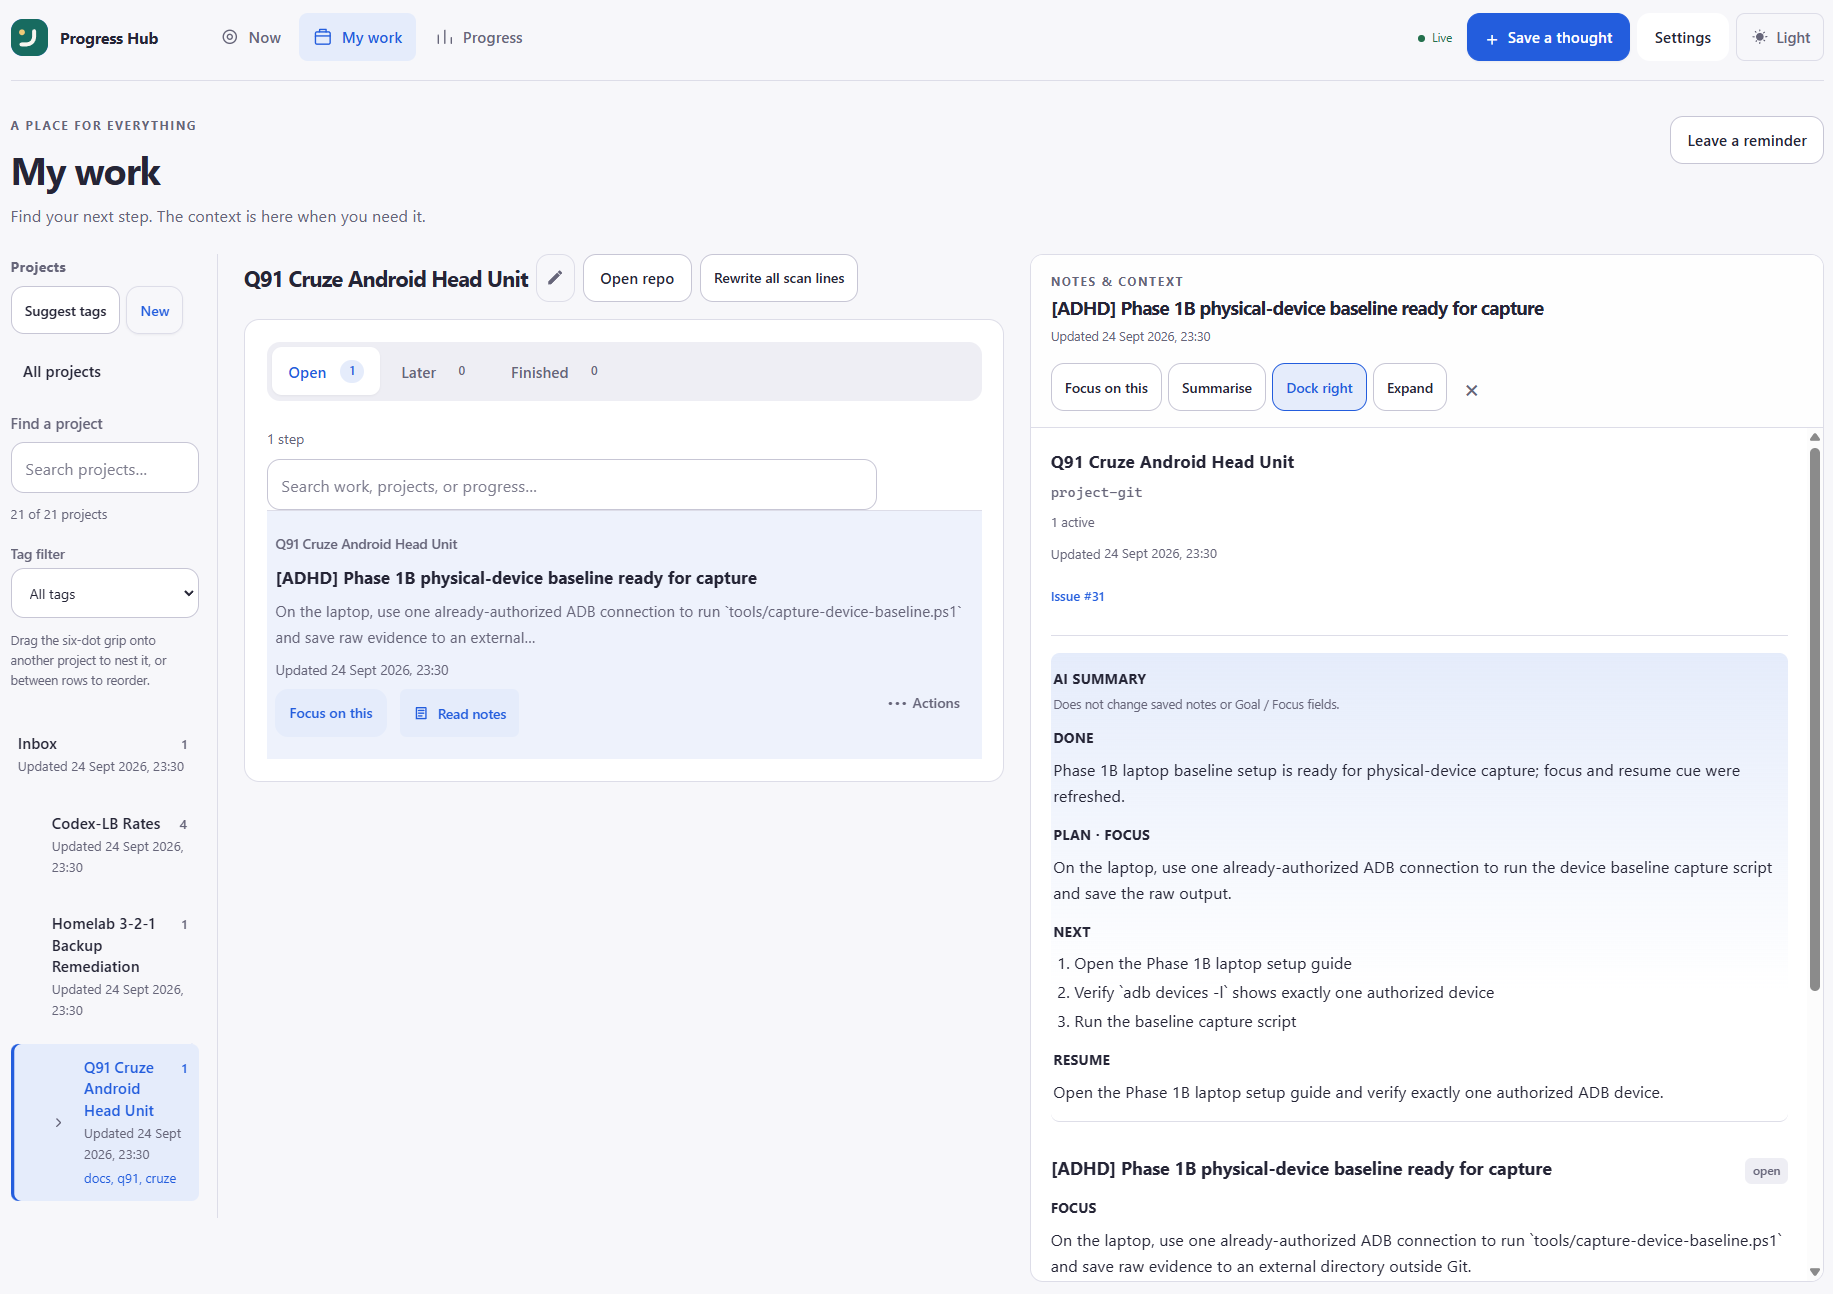
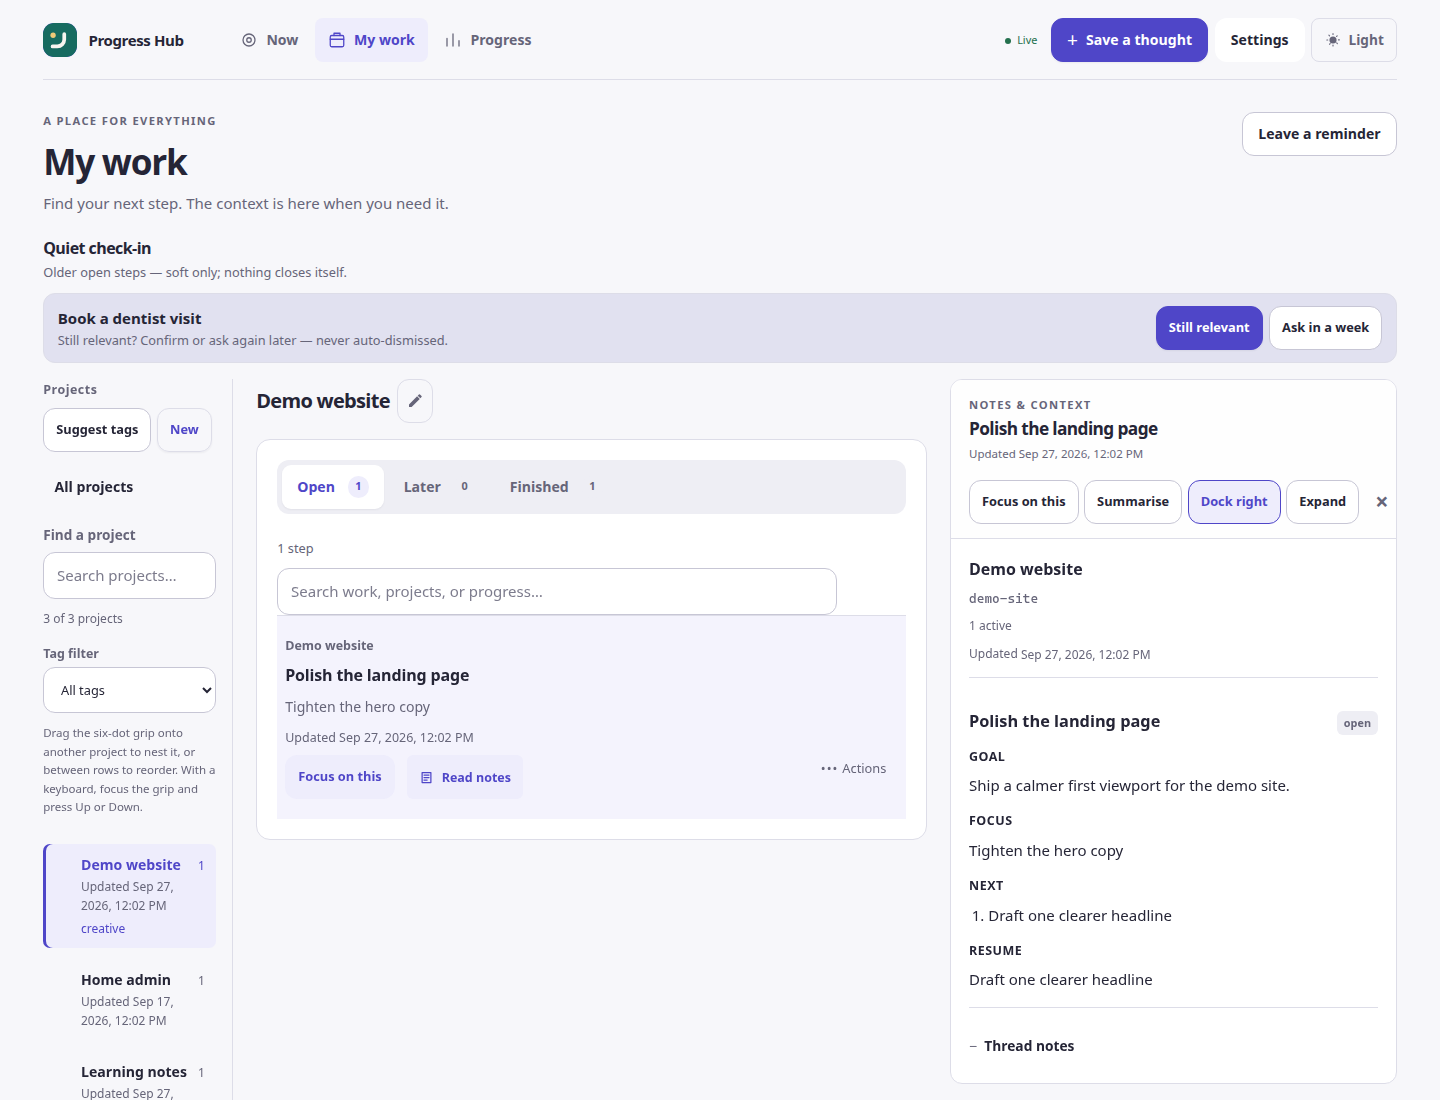
docs: refresh product screenshots for 0.18.0 docs (#256)
* docs: refresh product screenshots for 0.18.0 docs

Regenerate README/docs gallery and hero shots against latest main UI
(Quiet check-in, Notes reader, Settings). Capture script seeds a stale
thread for triage framing and syncs the hero from the notes-reader shot.

* docs: drop Quiet check-in from Notes-reader hero captions

Hero image is the My work Notes reader shot; Quiet check-in belongs in the Now gallery capture.

---------

diff --git a/scripts/capture_readme_screenshots.py b/scripts/capture_readme_screenshots.py
@@ -2,6 +2,10 @@
 
 Run: uv run --with playwright python scripts/capture_readme_screenshots.py
 Optional: ADHD_HUB_BROWSER_EXECUTABLE, ADHD_HUB_SCREENSHOT_DIR
+
+Prefer Playwright's bundled Chromium (omit ADHD_HUB_BROWSER_EXECUTABLE). Some
+system Chrome builds ignore Playwright viewport height, which crops Quiet
+check-in off the Now shot.
 """
 
 from __future__ import annotations
@@ -9,11 +13,14 @@ from __future__ import annotations
 import json
 import os
 import secrets
+import shutil
 import socket
+import sqlite3
 import subprocess
 import sys
 import tempfile
 import time
+from datetime import UTC, datetime, timedelta
 from pathlib import Path
 from urllib.request import Request, urlopen
 
@@ -151,6 +158,17 @@ def main() -> None:
                 },
             )
 
+            # Backdate one open thread so Quiet check-in (Wave 7 soft triage)
+            # appears on Now without inventing product state.
+            stale_at = (datetime.now(UTC) - timedelta(days=10)).isoformat()
+            with sqlite3.connect(Path(data) / "hub.sqlite3") as conn:
+                conn.execute(
+                    "UPDATE threads SET updated_at = ?, last_reminded_at = NULL, "
+                    "triage_snooze_until = NULL "
+                    "WHERE summary = ? AND status = 'open'",
+                    (stale_at, "Book a dentist visit"),
+                )
+
             with sync_playwright() as pw:
                 browser = pw.chromium.launch(
                     executable_path=os.environ.get("ADHD_HUB_BROWSER_EXECUTABLE")
@@ -158,7 +176,7 @@ def main() -> None:
                     args=["--no-sandbox"],
                 )
                 page = browser.new_page(
-                    viewport={"width": 1440, "height": 900},
+                    viewport={"width": 1440, "height": 1100},
                     reduced_motion="reduce",
                 )
                 page.goto(base + "/ui")
@@ -179,8 +197,10 @@ def main() -> None:
                         animations="disabled",
                     )
 
-                # Now
+                # Now (with Quiet check-in when a seeded thread is stale)
                 expect(page.locator("#now-view")).to_be_visible()
+                expect(page.locator("#now-triage")).to_be_visible()
+                expect(page.locator("#now-triage")).to_contain_text("Still relevant")
                 shot("now-desktop.png")
 
                 # My work with projects rail + thread cards
@@ -200,6 +220,8 @@ def main() -> None:
                     page.locator(".thread-notes-menu").first.click()
                 expect(page.locator("#notes-reader")).to_be_visible()
                 shot("notes-reader-desktop.png")
+                # Primary README/docs hero — same framing as the Notes reader shot.
+                shutil.copy2(out / "notes-reader-desktop.png", out / "my-work-notes-hero.png")
                 page.keyboard.press("Escape")
 
                 # Progress

diff --git a/README.md b/README.md
@@ -10,7 +10,7 @@ Inspired by [claude-adhd](https://github.com/shaheer-00/claude-adhd) (see [ATTRI
 
 ## Screenshots
 
-My work with the Notes & context reader (projects rail, thread card, Summarise):
+My work with Notes & context (projects rail, docked reader, Summarise):
 
 ![My work with Notes & context](docs/images/my-work-notes-hero.png)
 
@@ -18,7 +18,7 @@ My work with the Notes & context reader (projects rail, thread card, Summarise):
 | --- | --- | --- | --- |
 | ![Now](docs/images/now-desktop.png) | ![My work](docs/images/my-work-desktop.png) | ![Progress](docs/images/progress-desktop.png) | ![Settings](docs/images/settings-desktop.png) |
 
-Gallery shots use dummy demo data. More UI detail: [Dashboard](docs/dashboard.md) · [Notes & context](docs/notes.md).
+Gallery shots use dummy demo data (including a soft Quiet check-in). More UI detail: [Dashboard](docs/dashboard.md) · [Notes & context](docs/notes.md).
 
 ## Why
 
